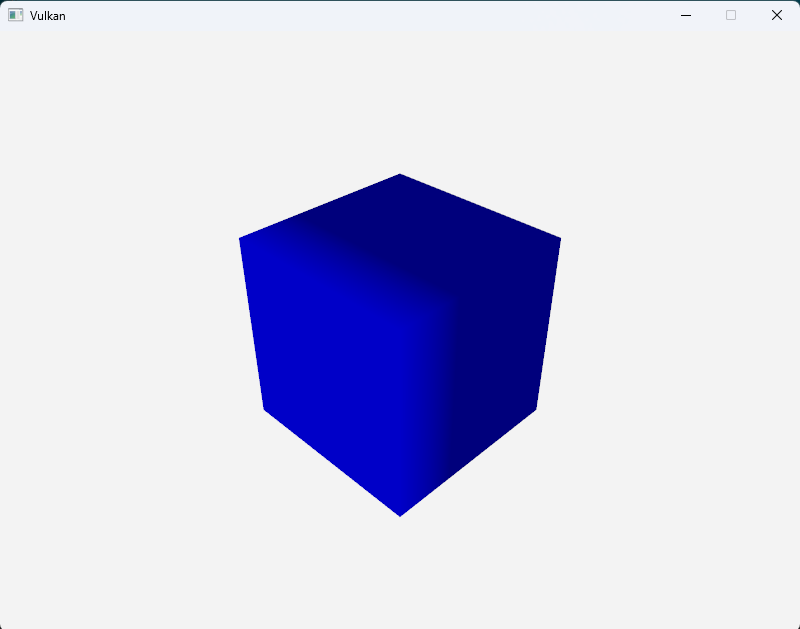
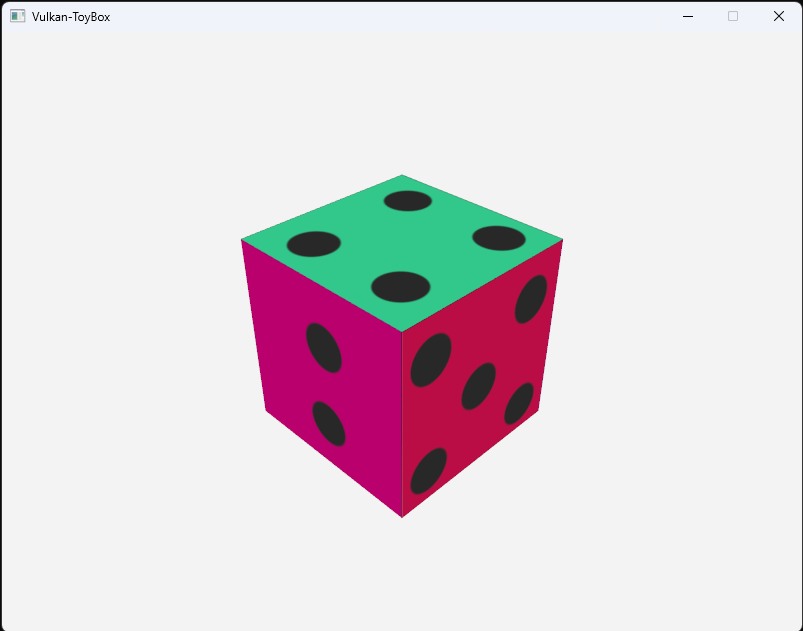
add texture to cube

diff --git a/toys/cube/cube_app.cpp b/toys/cube/cube_app.cpp
@@ -7,11 +7,16 @@ void CubeApp::run() {
 
 void CubeApp::initVulkan() {
     m_descriptorSetLayout.addBinding(0, VK_DESCRIPTOR_TYPE_UNIFORM_BUFFER, VK_SHADER_STAGE_VERTEX_BIT);
+    m_descriptorSetLayout.addBinding(1, VK_DESCRIPTOR_TYPE_COMBINED_IMAGE_SAMPLER, VK_SHADER_STAGE_FRAGMENT_BIT);
     m_descriptorSetLayout.create();
+
+    m_texture.loadFromFile("D:\\Projects\\Vulkan-Toybox\\toys\\cube\\dice_texture.png", m_commandPool);
+    m_texture.createSampler();
 
     m_uniformBuffer.create(sizeof(UniformBufferObject), MAX_FRAMES_IN_FLIGHT);
 
     m_descriptorPool.addPoolSize(VK_DESCRIPTOR_TYPE_UNIFORM_BUFFER, MAX_FRAMES_IN_FLIGHT);
+    m_descriptorPool.addPoolSize(VK_DESCRIPTOR_TYPE_COMBINED_IMAGE_SAMPLER, MAX_FRAMES_IN_FLIGHT);
     m_descriptorPool.create(MAX_FRAMES_IN_FLIGHT);
 
     m_descriptorSets = m_descriptorPool.allocate(m_descriptorSetLayout.handle(), MAX_FRAMES_IN_FLIGHT);
@@ -23,6 +28,12 @@ void CubeApp::initVulkan() {
             VK_DESCRIPTOR_TYPE_UNIFORM_BUFFER,
             m_uniformBuffer.buffer(i),
             sizeof(UniformBufferObject)
+        );
+        descriptorWriter.writeImage(
+            1,
+            VK_DESCRIPTOR_TYPE_COMBINED_IMAGE_SAMPLER,
+            m_texture.imageView(),
+            m_texture.sampler()
         );
         descriptorWriter.update(m_device);
     }
@@ -53,40 +64,59 @@ void CubeApp::createVertexBuffer() {
     // Define cube vertices (8 corners)
     const float size = 0.5f;  // Half-size of the cube
     std::vector<vkcommon::Vertex> vertices = {
-        // Front face
-        {{-size, -size, size}, {0, 0, 1}, {0, 0}},  // Front bottom-left
-        {{size, -size, size}, {0, 0, 1}, {1, 0}},   // Front bottom-right
-        {{size, size, size}, {0, 0, 1}, {1, 1}},    // Front top-right
-        {{-size, size, size}, {0, 0, 1}, {0, 1}},   // Front top-left
+        // Front face (2)
+        {{-size, -size,  size}, {0.0f, 0.0f, 1.0f}, {0.25f, 0.5f}},    // Bottom-left
+        {{ size, -size,  size}, {0.0f, 0.0f, 1.0f}, {0.5f, 0.5f}},     // Bottom-right
+        {{ size,  size,  size}, {0.0f, 0.0f, 1.0f}, {0.5f, 0.75f}},    // Top-right
+        {{-size,  size,  size}, {0.0f, 0.0f, 1.0f}, {0.25f, 0.75f}},   // Top-left
 
-        // Back face
-        {{-size, -size, -size}, {0, 0, -1}, {1, 0}}, // Back bottom-left
-        {{size, -size, -size}, {0, 0, -1}, {0, 0}},  // Back bottom-right
-        {{size, size, -size}, {0, 0, -1}, {0, 1}},   // Back top-right
-        {{-size, size, -size}, {0, 0, -1}, {1, 1}},  // Back top-left
+        // Back face (1)
+        {{-size, -size, -size}, {0.0f, 0.0f, -1.0f}, {0.5f, 0.5f}},    // Bottom-left
+        {{ size, -size, -size}, {0.0f, 0.0f, -1.0f}, {0.75f, 0.5f}},   // Bottom-right
+        {{ size,  size, -size}, {0.0f, 0.0f, -1.0f}, {0.75f, 0.75f}},  // Top-right
+        {{-size,  size, -size}, {0.0f, 0.0f, -1.0f}, {0.5f, 0.75f}},   // Top-left
+
+        // Top face (6)
+        {{-size,  size, -size}, {0.0f, 1.0f, 0.0f}, {0.5f, 0.25f}},    // Back-left
+        {{ size,  size, -size}, {0.0f, 1.0f, 0.0f}, {0.75f, 0.25f}},   // Back-right
+        {{ size,  size,  size}, {0.0f, 1.0f, 0.0f}, {0.75f, 0.5f}},    // Front-right
+        {{-size,  size,  size}, {0.0f, 1.0f, 0.0f}, {0.5f, 0.5f}},     // Front-left
+
+        // Bottom face (5)
+        {{-size, -size, -size}, {0.0f, -1.0f, 0.0f}, {0.5f, 0.75f}},   // Back-left
+        {{ size, -size, -size}, {0.0f, -1.0f, 0.0f}, {0.75f, 0.75f}},  // Back-right
+        {{ size, -size,  size}, {0.0f, -1.0f, 0.0f}, {0.75f, 1.0f}},   // Front-right
+        {{-size, -size,  size}, {0.0f, -1.0f, 0.0f}, {0.5f, 1.0f}},    // Front-left
+
+        // Right face (4)
+        {{ size, -size, -size}, {1.0f, 0.0f, 0.0f}, {0.75f, 0.5f}},    // Bottom-back
+        {{ size,  size, -size}, {1.0f, 0.0f, 0.0f}, {1.0f, 0.5f}},     // Top-back
+        {{ size,  size,  size}, {1.0f, 0.0f, 0.0f}, {1.0f, 0.75f}},    // Top-front
+        {{ size, -size,  size}, {1.0f, 0.0f, 0.0f}, {0.75f, 0.75f}},   // Bottom-front
+
+        // Left face (3)
+        {{-size, -size, -size}, {-1.0f, 0.0f, 0.0f}, {0.0f, 0.5f}},    // Bottom-back
+        {{-size,  size, -size}, {-1.0f, 0.0f, 0.0f}, {0.25f, 0.5f}},   // Top-back
+        {{-size,  size,  size}, {-1.0f, 0.0f, 0.0f}, {0.25f, 0.75f}},  // Top-front
+        {{-size, -size,  size}, {-1.0f, 0.0f, 0.0f}, {0.0f, 0.75f}}    // Bottom-front
     };
 
-    // Define indices for all faces
+    // Indices remain the same as before
     std::vector<uint32_t> indices = {
         // Front face
-        0, 1, 2,
-        2, 3, 0,
-        // Right face
-        1, 5, 6,
-        6, 2, 1,
+        0,  1,  2,  2,  3,  0,
         // Back face
-        5, 4, 7,
-        7, 6, 5,
-        // Left face
-        4, 0, 3,
-        3, 7, 4,
+        4,  5,  6,  6,  7,  4,
         // Top face
-        3, 2, 6,
-        6, 7, 3,
+        8,  9,  10, 10, 11, 8,
         // Bottom face
-        4, 5, 1,
-        1, 0, 4
+        12, 13, 14, 14, 15, 12,
+        // Right face
+        16, 17, 18, 18, 19, 16,
+        // Left face
+        20, 21, 22, 22, 23, 20
     };
+
 
     m_vertexBuffer.createVertexBuffer(vertices, m_commandPool);
     m_vertexBuffer.createIndexBuffer(indices, m_commandPool);

diff --git a/toys/cube/cube_app.h b/toys/cube/cube_app.h
@@ -19,6 +19,7 @@
 #include "resources/images/color_image.h"
 #include "resources/images/depth_buffer.h"
 #include "resources/memory/memory_allocator.h"
+#include "resources/images/texture.h"
 #include "sync/frame_manager.h"
 
 #define GLM_FORCE_RADIANS
@@ -76,6 +77,7 @@ private:
     vkcommon::ColorImage m_colorImage{ m_device, m_allocator };
     vkcommon::DepthBuffer m_depthBuffer{ m_device, m_allocator };
     vkcommon::UniformBuffer m_uniformBuffer{ m_device, m_allocator };
+    vkcommon::Texture m_texture{ m_device, m_allocator };
 
     vkcommon::FrameManager m_frameManager{ m_device, MAX_FRAMES_IN_FLIGHT };
 };
